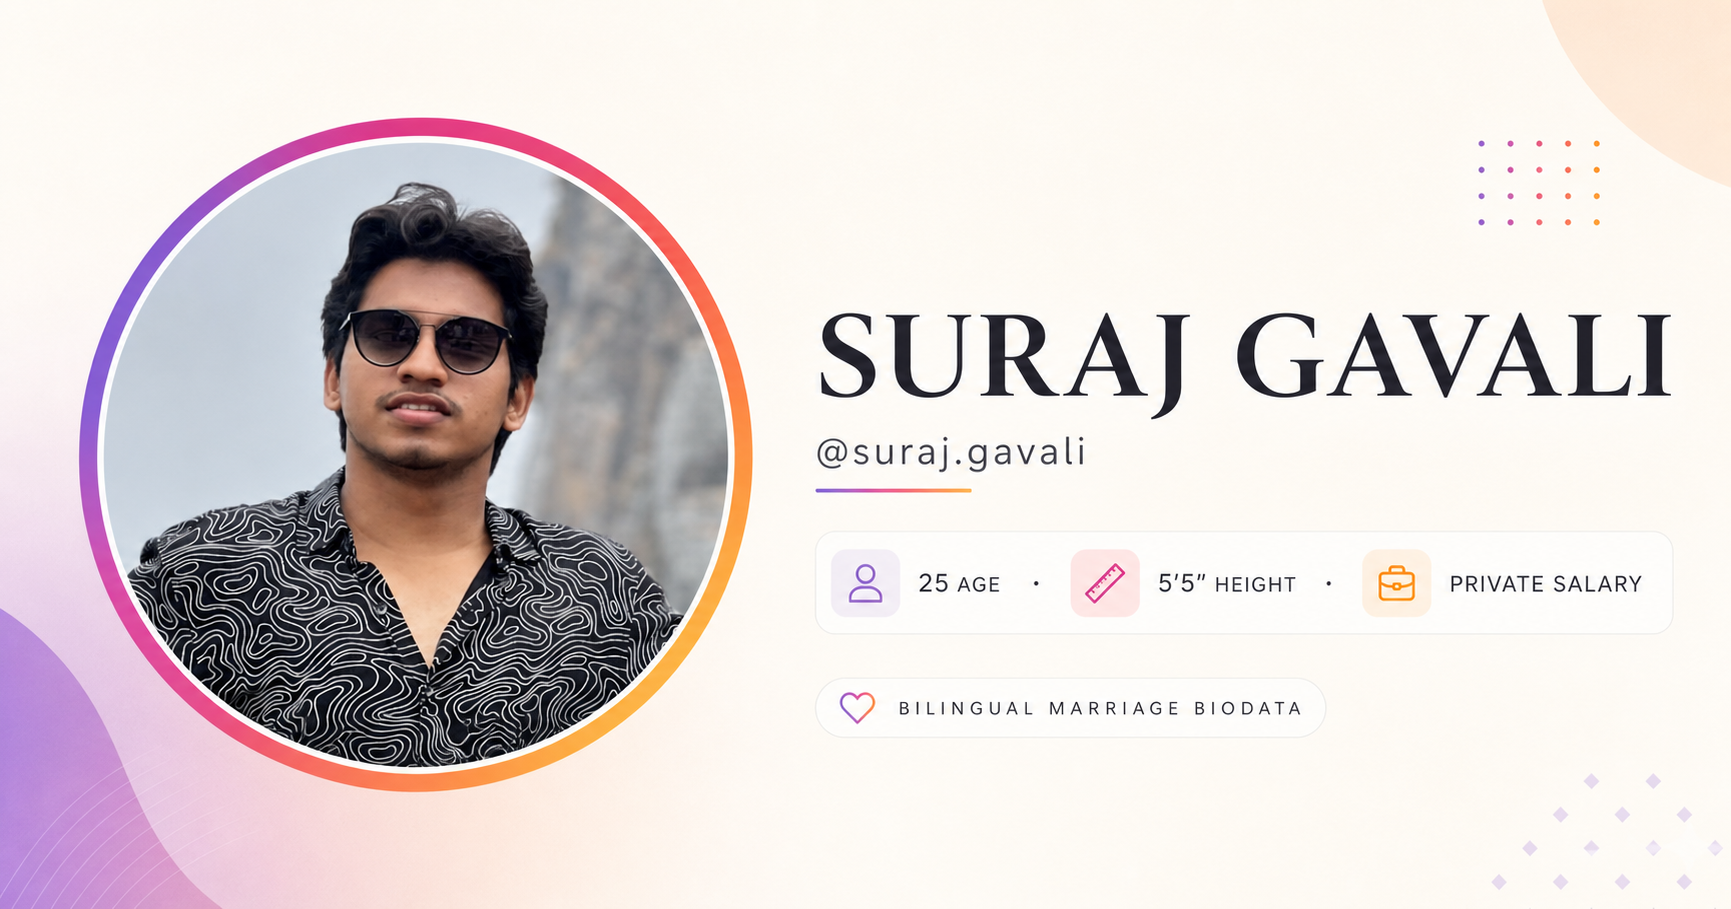
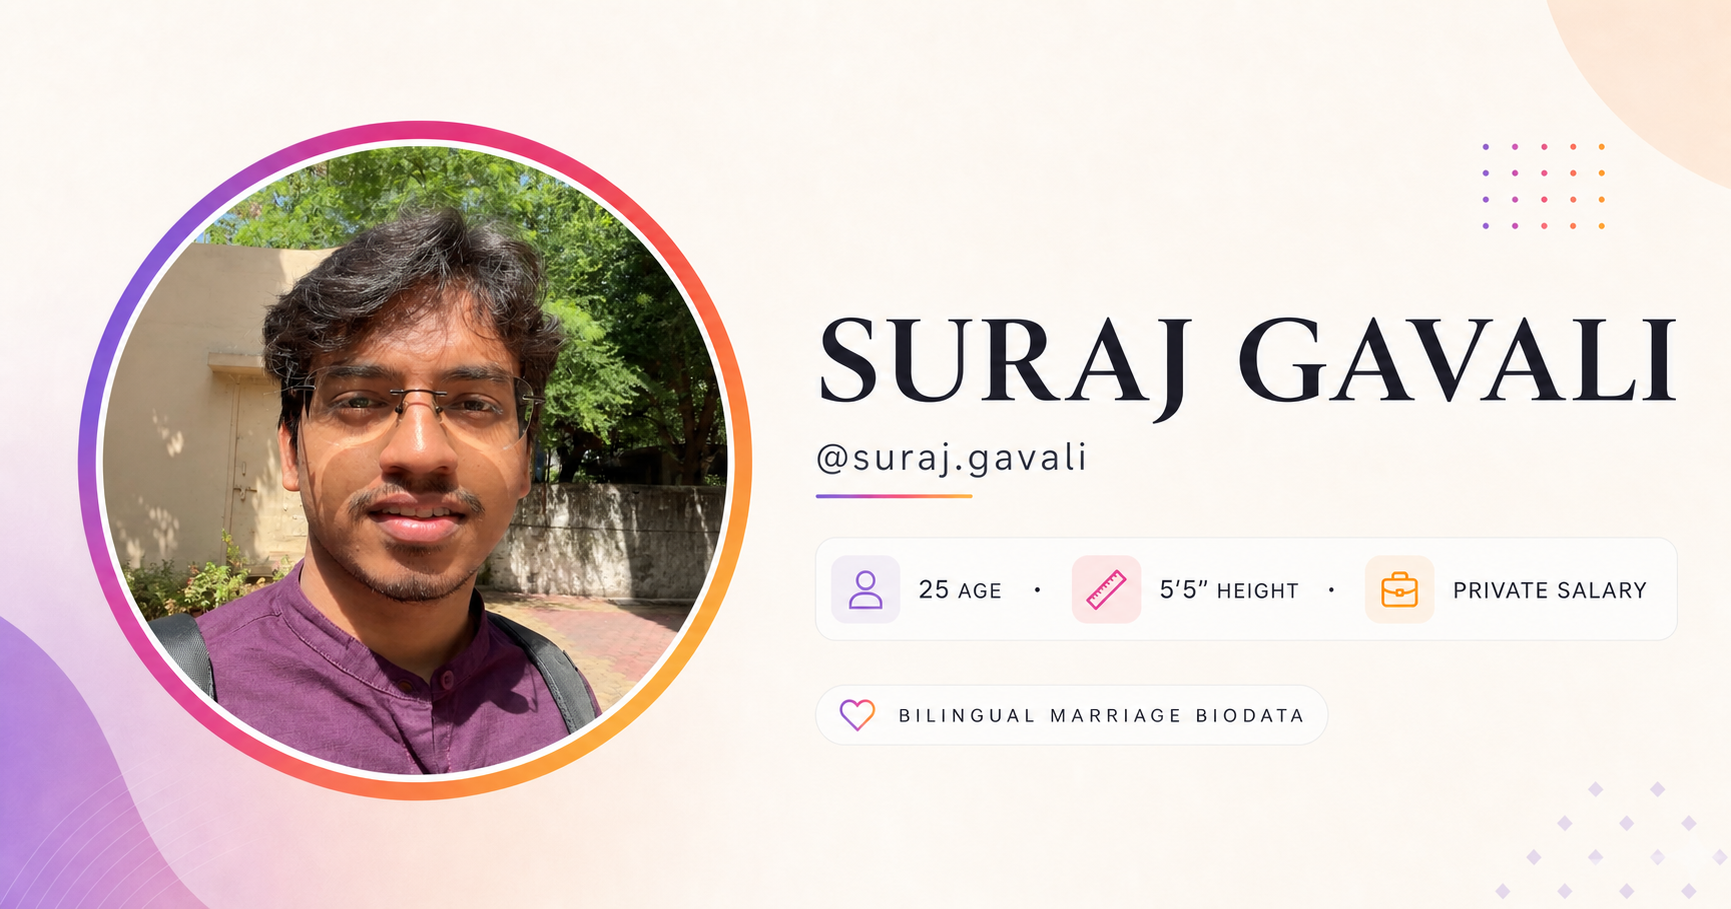
Update social preview portrait

diff --git a/README.md b/README.md
@@ -6,7 +6,7 @@ active language can be downloaded as a high-resolution PNG or an A4 PDF.
 ## Update the biodata
 
 - Edit Suraj Gavali's bilingual profile details in `src/app/biodata.ts`.
-- Replace `public/profile-photo.png` with your preferred portrait. Keep
+- Replace `public/profile-photo-2026.png` with your preferred portrait. Keep
   the same filename to update the website and both download formats
   automatically.
 - Update the page title and description in `src/app/layout.tsx` if the profile
